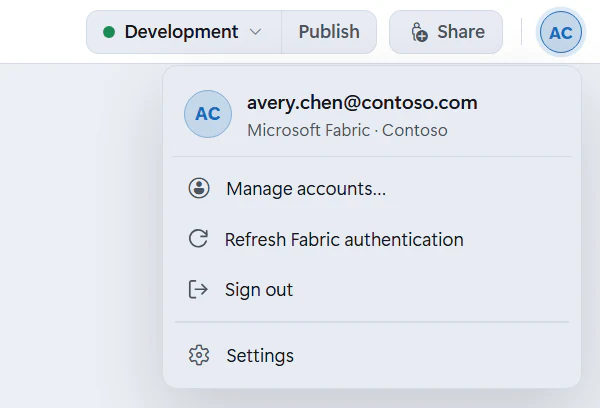
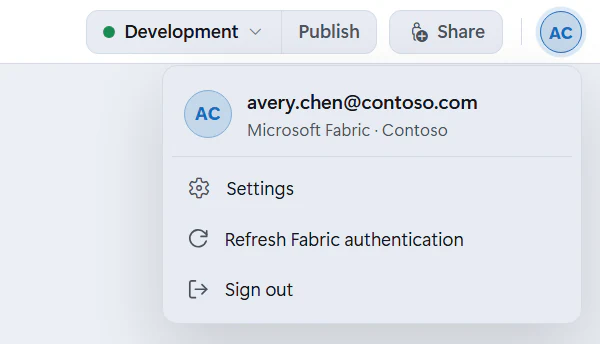
Drop Manage accounts from the account menu and put Settings first
Settings already opens Accounts (General, then Manage accounts), so the
account menu's own Manage accounts… item was a second way to the same
place. Settings now takes its place at the top of the menu, followed by
Refresh Fabric authentication and Sign out. The separator that set
Settings apart at the bottom goes with it.

- AccountMenu loses onManageAccounts, its menu.manage and
  menu.manageTitle strings in every language, and the .account-sep
  style.
- Workbench tests reach Accounts through the menu's Settings.
- Docs: Manage your accounts, the tour and two troubleshooting pages
  open Accounts through Settings, and the account-menu screenshot is
  recaptured in both themes.

Copilot-Session: 0e81056c-47a4-4e87-852b-436330b12159

diff --git a/src/renderer/src/components/AccountMenu.test.tsx b/src/renderer/src/components/AccountMenu.test.tsx
@@ -19,7 +19,6 @@ function makeProps(overrides: Partial<Props> = {}): Props {
     onSignIn: vi.fn(),
     onSignOut: vi.fn(),
     onRefresh: vi.fn(),
-    onManageAccounts: vi.fn(),
     onOpenSettings: vi.fn(),
     ...overrides
   }
@@ -88,21 +87,17 @@ describe('AccountMenu', () => {
     expect(screen.getByRole('menu', { name: 'Fabric account' })).toBeTruthy()
     expect(screen.getByText('first.last@example.com')).toBeTruthy()
     expect(screen.getByText('Microsoft Fabric · Contoso')).toBeTruthy()
+    expect(
+      screen.getAllByRole('menuitem').map((i) => i.textContent),
+      'Accounts opens from Settings'
+    ).toEqual(['Settings', 'Refresh Fabric authentication', 'Sign out'])
     await frame()
-    expect(document.activeElement).toBe(item('Manage accounts…'))
+    expect(document.activeElement).toBe(item('Settings'))
 
     fireEvent.click(item('Sign out'))
     expect(props.onSignOut).toHaveBeenCalledTimes(1)
     expect(screen.queryByRole('menu')).toBeNull()
     expect(document.activeElement).toBe(trigger())
-  })
-
-  it('opens every account from the menu', () => {
-    const props = renderMenu()
-    fireEvent.click(trigger())
-    fireEvent.click(item('Manage accounts…'))
-    expect(props.onManageAccounts).toHaveBeenCalledTimes(1)
-    expect(screen.queryByRole('menu')).toBeNull()
   })
 
   it('offers credential refresh only when a project is open', () => {
@@ -164,21 +159,18 @@ describe('AccountMenu', () => {
     renderMenu()
     fireEvent.click(trigger())
     await frame()
-    const manage = item('Manage accounts…')
+    const settings = item('Settings')
     const refresh = item('Refresh Fabric authentication')
     const signOut = item('Sign out')
-    const settings = item('Settings')
-    expect(document.activeElement).toBe(manage)
-    fireEvent.keyDown(manage, { key: 'ArrowDown' })
+    expect(document.activeElement).toBe(settings)
+    fireEvent.keyDown(settings, { key: 'ArrowDown' })
     expect(document.activeElement).toBe(refresh)
     fireEvent.keyDown(refresh, { key: 'ArrowDown' })
     expect(document.activeElement).toBe(signOut)
     fireEvent.keyDown(signOut, { key: 'ArrowDown' })
-    expect(document.activeElement, 'the separator is skipped').toBe(settings)
-    fireEvent.keyDown(settings, { key: 'ArrowDown' })
-    expect(document.activeElement).toBe(manage)
-    fireEvent.keyDown(manage, { key: 'End' })
     expect(document.activeElement).toBe(settings)
+    fireEvent.keyDown(settings, { key: 'End' })
+    expect(document.activeElement).toBe(signOut)
   })
 
   it('opens Settings from the menu, signed in or out', () => {
@@ -218,14 +210,14 @@ describe('AccountMenu', () => {
     expect(props.onRefresh).toHaveBeenCalledTimes(1)
   })
 
-  it('offers account management behind the caret even with no project open', () => {
+  it('offers Settings, and so every account, behind the caret even with no project open', () => {
     const props = renderMenu({ signedIn: false, user: undefined, canRefresh: false, signingIn: true, busy: true })
     const signIn = screen.getByRole('button', { name: 'Signing in…' }) as HTMLButtonElement
     expect(signIn.disabled).toBe(true)
     fireEvent.click(screen.getByRole('button', { name: 'Settings and accounts' }))
     expect(screen.queryByRole('menuitem', { name: 'Refresh Fabric authentication' })).toBeNull()
-    fireEvent.click(item('Manage accounts…'))
-    expect(props.onManageAccounts).toHaveBeenCalledTimes(1)
+    fireEvent.click(item('Settings'))
+    expect(props.onOpenSettings).toHaveBeenCalledTimes(1)
   })
 
   it('waits for a project before signing in, and says why', () => {
@@ -241,8 +233,8 @@ describe('AccountMenu', () => {
     expect(signIn.title).toBe(why)
     fireEvent.click(screen.getByRole('button', { name: 'Settings and accounts' }))
     expect(screen.getByText(why)).toBeTruthy()
-    fireEvent.click(item('Manage accounts…'))
-    expect(props.onManageAccounts).toHaveBeenCalledTimes(1)
+    fireEvent.click(item('Settings'))
+    expect(props.onOpenSettings).toHaveBeenCalledTimes(1)
   })
 
   it('stays neutral while the launch check runs instead of asking to sign in', async () => {
@@ -255,7 +247,7 @@ describe('AccountMenu', () => {
     expect(screen.queryByRole('menuitem', { name: 'Refresh Fabric authentication' })).toBeNull()
     expect(screen.queryByRole('menuitem', { name: 'Sign out' })).toBeNull()
     await frame()
-    fireEvent.click(item('Manage accounts…'))
-    expect(props.onManageAccounts).toHaveBeenCalledTimes(1)
+    fireEvent.click(item('Settings'))
+    expect(props.onOpenSettings).toHaveBeenCalledTimes(1)
   })
 })

diff --git a/src/renderer/src/screens/Workbench.test.tsx b/src/renderer/src/screens/Workbench.test.tsx
@@ -809,7 +809,7 @@ describe('Workbench app bar', () => {
     expect(screen.queryByRole('button', { name: 'Sign in to Fabric' })).toBeNull()
     fireEvent.click(screen.getByRole('button', { name: 'Account: checking sign-in' }))
     expect(screen.getByText('Checking your Fabric sign-in…')).toBeTruthy()
-    expect(screen.getByRole('menuitem', { name: 'Manage accounts…' })).toBeTruthy()
+    expect(screen.getByRole('menuitem', { name: 'Settings' })).toBeTruthy()
     expect(screen.queryByRole('menuitem', { name: 'Sign out' })).toBeNull()
   })
 
@@ -834,11 +834,13 @@ describe('Workbench app bar', () => {
     expect(screen.queryByText(/Not signed in to GitHub Copilot/)).toBeNull()
   })
 
-  it('opens Accounts from the account menu', async () => {
+  it('opens Accounts from Settings in the account menu', async () => {
     installApi()
-    render(<Workbench {...makeProps()} />, { wrapper: Wrapper })
-    fireEvent.click(accountAction('Manage accounts…'))
+    render(<Workbench {...makeProps({ settings: defaultSettings })} />, { wrapper: Wrapper })
+    fireEvent.click(accountAction('Settings'))
+    fireEvent.click(await screen.findByRole('button', { name: 'Manage accounts' }))
     const dialog = await screen.findByRole('dialog', { name: 'Accounts' })
+    expect(screen.queryByRole('dialog', { name: 'Settings' })).toBeNull()
     expect(within(dialog).getByText('dev@example.com')).toBeTruthy()
     expect(within(dialog).getByText('octocat')).toBeTruthy()
   })
@@ -856,9 +858,15 @@ describe('Workbench app bar', () => {
         activeProjectId: null,
         projects
       })
-      render(<Workbench {...makeProps({ auth: { ...auth, rayfin: { signedIn: false } } })} />, {
-        wrapper: Wrapper
-      })
+      render(
+        <Workbench
+          {...makeProps({
+            auth: { ...auth, rayfin: { signedIn: false } },
+            settings: defaultSettings
+          })}
+        />,
+        { wrapper: Wrapper }
+      )
       await waitFor(() =>
         expect(homeProps.mock.lastCall?.[0].projects).toHaveLength(projects.length)
       )
@@ -866,7 +874,8 @@ describe('Workbench app bar', () => {
       const signIn = screen.getByRole('button', { name: 'Sign in to Fabric' }) as HTMLButtonElement
       expect(signIn.disabled).toBe(!ready)
       fireEvent.click(screen.getByRole('button', { name: 'Settings and accounts' }))
-      fireEvent.click(screen.getByRole('menuitem', { name: 'Manage accounts…' }))
+      fireEvent.click(screen.getByRole('menuitem', { name: 'Settings' }))
+      fireEvent.click(await screen.findByRole('button', { name: 'Manage accounts' }))
       const dialog = await screen.findByRole('dialog', { name: 'Accounts' })
       const fabric = within(dialog).getByRole('region', { name: 'Microsoft Fabric' })
       const dialogSignIn = within(fabric).getByRole('button', {

diff --git a/src/renderer/src/components/AccountMenu.tsx b/src/renderer/src/components/AccountMenu.tsx
@@ -39,9 +39,7 @@ interface Props {
   onSignIn: () => void
   onSignOut: () => void
   onRefresh: () => void
-  /** Open the Accounts dialog: every account Fabricator uses. */
-  onManageAccounts: () => void
-  /** Open Settings. */
+  /** Open Settings, which leads to Accounts: every account Fabricator uses. */
   onOpenSettings: () => void
 }
 
@@ -49,12 +47,12 @@ const ITEM = '[role="menuitem"]'
 
 /**
  * The app bar's account control, which also holds Settings. Signed in to
- * Fabric, it's the user's avatar and opens a menu with the account actions
- * (manage every account, refresh credentials, sign out) and Settings. Signed
- * out, "Sign in to Fabric" stays one click away, with the rest behind its caret;
- * until there's a project, whose Rayfin CLI signs in, it's disabled and says why.
- * While the launch check runs it's a neutral placeholder rather than a premature
- * sign-in prompt.
+ * Fabric, it's the user's avatar and opens a menu with Settings and the Fabric
+ * account's actions (refresh credentials, sign out). Signed out, "Sign in to
+ * Fabric" stays one click away, with the rest behind its caret; until there's a
+ * project, whose Rayfin CLI signs in, it's disabled and says why. While the
+ * launch check runs it's a neutral placeholder rather than a premature sign-in
+ * prompt.
  */
 export default function AccountMenu({
   signedIn,
@@ -71,7 +69,6 @@ export default function AccountMenu({
   onSignIn,
   onSignOut,
   onRefresh,
-  onManageAccounts,
   onOpenSettings
 }: Props): JSX.Element {
   const { t } = useTranslation('accounts')
@@ -239,11 +236,11 @@ export default function AccountMenu({
           >
             <MenuItem
               disabled={false}
-              onClick={() => pick(onManageAccounts)}
-              icon={<Codicon name="account" />}
-              title={t('menu.manageTitle')}
+              onClick={() => pick(onOpenSettings)}
+              icon={<Codicon name="settings-gear" />}
+              title={t('menu.settingsTitle')}
             >
-              {t('menu.manage')}
+              {t('menu.settings')}
             </MenuItem>
             {!pending && refreshItem}
             {signedIn && (
@@ -251,16 +248,6 @@ export default function AccountMenu({
                 {signingOut ? t('signingOut') : t('actions.signOut')}
               </MenuItem>
             )}
-            {/* The rest is about the account; Settings is the app's. */}
-            <div className="account-sep" role="separator" />
-            <MenuItem
-              disabled={false}
-              onClick={() => pick(onOpenSettings)}
-              icon={<Codicon name="settings-gear" />}
-              title={t('menu.settingsTitle')}
-            >
-              {t('menu.settings')}
-            </MenuItem>
           </div>
         </div>
       )}

diff --git a/scripts/docs-screenshots/harness/docs-harness.tsx b/scripts/docs-screenshots/harness/docs-harness.tsx
@@ -2079,7 +2079,6 @@ function Deployments(): JSX.Element {
               onSignIn={noop}
               onSignOut={noop}
               onRefresh={noop}
-              onManageAccounts={noop}
               onOpenSettings={noop}
             />
           </div>
@@ -2091,8 +2090,8 @@ function Deployments(): JSX.Element {
 
 /**
  * The account menu, open from the avatar beside the sample app's deployment control: the
- * signed-in Fabric account, its actions and Settings. Opening it focuses its first item, which
- * a mouse click wouldn't show, so the shot hides the focus styling.
+ * signed-in Fabric account, Settings and the account's actions. Opening it focuses its first item,
+ * which a mouse click wouldn't show, so the shot hides the focus styling.
  */
 function AccountMenuShot(): JSX.Element {
   const app: StudioProject = { ...expensesApp, deploymentNames: { [APPS_WS]: 'Development' } }
@@ -2127,7 +2126,6 @@ function AccountMenuShot(): JSX.Element {
                 onSignIn={noop}
                 onSignOut={noop}
                 onRefresh={noop}
-                onManageAccounts={noop}
                 onOpenSettings={noop}
               />
             </Open>

diff --git a/src/renderer/src/assets/main.css b/src/renderer/src/assets/main.css
@@ -1368,13 +1368,6 @@ code {
   height: 15px;
 }
 
-/* Between the account's actions and the app's (Settings). */
-.account-sep {
-  height: 1px;
-  margin: 4px 2px;
-  background: var(--border);
-}
-
 /* Splash: the startup screen (SplashScreen.tsx). One lockup in every form: Ray,
    the "Fabricator" wordmark building itself, and a plain status line under it.
    Flat like the rest of Ray: a bordered bubble, hairline ripples, solid dots,

diff --git a/src/renderer/src/screens/Workbench.tsx b/src/renderer/src/screens/Workbench.tsx
@@ -3199,7 +3199,6 @@ export default function Workbench({
                 onRefresh={() => {
                   if (active) openAuthRefresh(active)
                 }}
-                onManageAccounts={() => setShowAccounts(true)}
                 onOpenSettings={() => setShowSettings(true)}
               />
             </div>

diff --git a/scripts/docs-screenshots/README.md b/scripts/docs-screenshots/README.md
@@ -216,7 +216,7 @@ of them. The current crops (no crop means the whole 1440×900 window):
 | `custom-instructions` | harness | `410,187,620,526` |
 | `migrate-report` | harness | `340,12,760,716` |
 | `migration-card` | harness | `0,610,720,290` |
-| `account-menu` | harness | `1040,0,400,272` |
+| `account-menu` | harness | `1040,0,400,229` |
 | `accounts` | harness | `390,40,660,820` |
 | `deployments` | harness | `1000,0,440,392` |
 | `share` | live, `--open` on Share, `--close` on Cancel | `400,240,640,420` |
